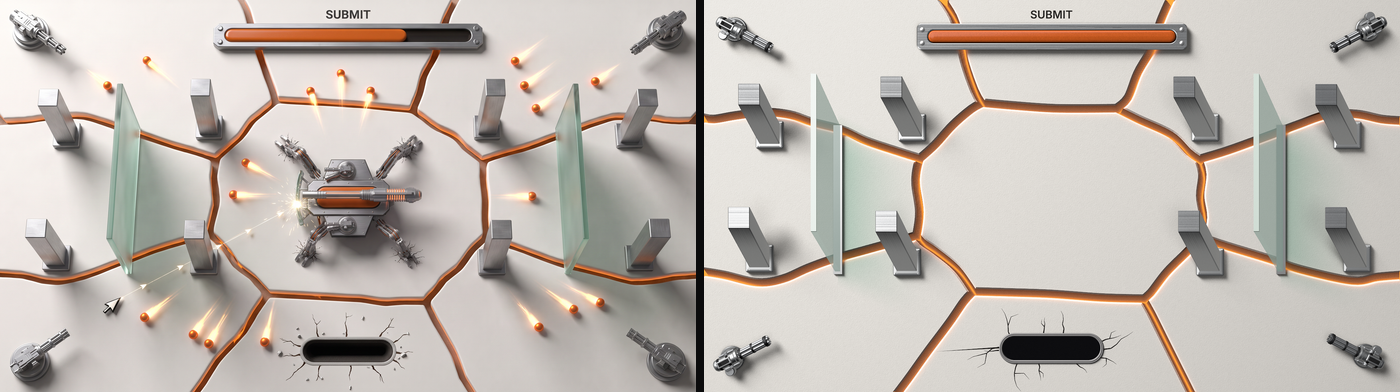
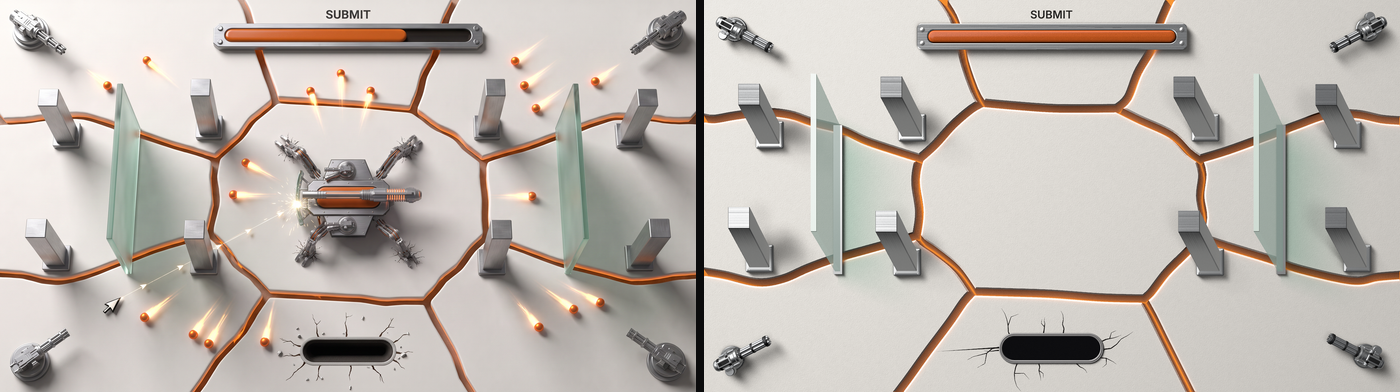
arena: the scorch black without its embossed tracks, glowing veins in the crust, no drawn spokes; the sounds note says the bar's event comes at 1.70; b-boss and b-bosslook merged

diff --git a/src/arena/scorch.ts b/src/arena/scorch.ts
@@ -92,7 +92,6 @@ export function scorchReach(s: Scorch, W: number, H: number): { i0: number; i1: 
   }
 }
 
-const CRACKS = 19
 
 // Rows `from` up to `to` of the scorch, written into `data` (W by H texels over the page, RGBA, row 0 at the bottom of the page):
 // red the soot, green how deep the surface is burnt away, blue the embers, alpha when the place burns: 1/255 at once, 255 as the blast ends. 0 where the ground is clean.
@@ -114,7 +113,6 @@ export function paintScorch(data: Uint8Array, W: number, H: number, s: Scorch, s
       if (e.px > 150) continue
       const fine = fbm(x / 5, y / 5, seed + 44)
       const mid = fbm(x / 24, y / 24, seed + 45)
-      // The rim is ragged at the size of a hand, and soft: the black thins out into a brown grey haze.
       // The rim is drawn out into streaks that run with the beam, ragged at the size of a hand, and soft: the black thins out into a brown grey haze.
       const streak = noise(e.along / 110 + 3.3, e.across / 7.5, seed + 46)
       const px = e.px + 20 * (fbm(x / 30, y / 30, seed + 52) - 0.5) + 34 * (streak - 0.5)
@@ -125,36 +123,25 @@ export function paintScorch(data: Uint8Array, W: number, H: number, s: Scorch, s
         const speck = fbm(x / 4.2, y / 4.2, seed + 47)
         if (speck > 0.69) soot = Math.max(soot, 0.9 * step(120, 14, px) * step(0.69, 0.77, speck))
       }
-      // Hairline cracks: along the trench inside it, and out from the burn like the spokes of a wheel.
+      // Hairline cracks along the trench, inside the black only.
       const fissure = step(0.91, 0.975, 1 - Math.abs(2 * noise(e.along / 52 + 7.7, e.across / 6, seed + 48) - 1)) * step(6, -18, e.px)
-      let spoke = 0
-      {
-        const bx = x - s.bx, by = y - s.by
-        const r = Math.hypot(bx, by)
-        const turn = (Math.atan2(by, bx) / (Math.PI * 2) + 0.5) * CRACKS
-        const n = Math.round(turn) % CRACKS
-        const reach = SCORCH.burn * (1.3 + 1.1 * rnd(seed, 430 + s.tag, n))
-        if (r > SCORCH.burn * 0.5 && r < reach) {
-          const bend = 0.34 * (rnd(seed, 431 + s.tag, n) - 0.5) + 0.26 * (noise(r / 34, n * 3.7, seed + 49) - 0.5)
-          let off = turn - Math.round(turn) - bend
-          if (off > 0.5) off -= 1
-          const dist = Math.abs(off) * ((Math.PI * 2) / CRACKS) * r
-          const thick = 0.3 + 0.7 * (1 - r / reach)
-          spoke = step(thick + 0.7, thick * 0.4, dist) * (rnd(seed, 432 + s.tag, n) > 0.36 ? 1 : 0)
-        }
-      }
-      soot = Math.max(soot, 0.92 * fissure, 0.8 * spoke)
+      soot = Math.max(soot, 0.92 * fissure)
       const core = step(0, -30, px)
-      const depth = 0.16 * core * mid + 0.6 * Math.max(fissure, spoke)
+      const depth = 0.16 * core * mid + 0.6 * fissure
       // Embers: short streaks down the middle of the trench, and a loose ring of them inside the rim of the burn.
       let ember = 0
       if (px < -6) {
         // Two loose rows of them down the line, right through the burn, and a few strays in the black beside the rows.
-        const band = Math.max(Math.exp(-(((Math.abs(e.across) - SCORCH.half * 0.34) / (SCORCH.half * 0.24)) ** 2)), 0.22 * step(-10, -40, px))
-        const patch = step(0.42, 0.62, noise(e.along / 85 + s.tag * 3.7, e.across / 85 + 5.5, seed + 50))
+        const band = Math.max(Math.exp(-(((Math.abs(e.across) - SCORCH.half * 0.34) / (SCORCH.half * 0.3)) ** 2)), 0.3 * step(-10, -40, px))
+        const patch = step(0.38, 0.6, noise(e.along / 85 + s.tag * 3.7, e.across / 85 + 5.5, seed + 50))
         const blob = fbm(e.along / 14 + 50, e.across / 5, seed + 51)
         // Small and orange: coals in soot, not the light of a broken slab.
         ember = 0.62 * step(0.6, 0.7, blob) * (0.35 + 0.65 * step(0.36, 0.56, fine)) * patch * band
+        // And veins of them: the cracks of the charred crust glow, drawn out a little along the beam.
+        const vein = 1 - Math.abs(2 * fbm(e.along / 34 + 9.1, e.across / 17 + 2.3, seed + 53) - 1)
+        const lit = step(0.3, 0.55, noise(e.along / 120 + 1.7, e.across / 70 + 8.8, seed + 54))
+        const broken = step(0.42, 0.58, fbm(x / 9, y / 9, seed + 55))
+        ember = Math.max(ember, 0.74 * step(0.95, 0.995, vein) * lit * broken * step(-4, -30, px) * (0.5 + 0.5 * fine))
       }
       if (soot < 0.012 && ember < 0.012) continue
       // When it burns: the front runs out along the line in the first part of the blast, and the black spreads from the middle to the rim for the rest of it.

diff --git a/src/arena/ground.ts b/src/arena/ground.ts
@@ -98,7 +98,7 @@ export function woundedCeramic(w: Wounds): THREE.MeshPhysicalMaterial {
     const emissive = '#include <emissivemap_fragment>'
     if (!shader.fragmentShader.includes(colour) || !shader.fragmentShader.includes(emissive)) throw new Error('The surface code of this three.js release is not the one the arena was written for')
     shader.fragmentShader = head + shader.fragmentShader
-      .replace(colour, `${colour}\n\tvec4 arenaW = texture2D( arenaWounds, vArenaUv );\n\tvec4 arenaS4 = texture2D( arenaScorch, vArenaUv );\n\tfloat arenaRev = ( arenaBurn.x <= 0.0 || arenaS4.a <= 0.0 ) ? 0.0 : smoothstep( arenaS4.a - 0.06, arenaS4.a + 0.06, arenaBurn.x * 1.12 );\n\tfloat arenaSoot = arenaS4.r * arenaRev * ( 0.9 + 0.2 * arenaHash( floor( vArenaUv * vec2( ${(PAGE.w * 1.6).toFixed(1)}, ${(PAGE.h * 1.6).toFixed(1)} ) ) ) );\n\tarenaW.r = max( arenaW.r, min( 1.0, arenaSoot ) );\n\tvec2 arenaWp = ( vArenaUv - 0.5 ) * vec2( ${PAGE.w.toFixed(1)}, ${PAGE.h.toFixed(1)} );\n\tdiffuseColor.rgb *= 1.0 + min( 1.0, arenaSeam ) * ( ( arenaHash( floor( arenaWp * 0.9 ) ) - 0.5 ) * 0.03 + ( arenaVal( arenaWp / 9.0 ) - 0.5 ) * 0.018 );\n\tdiffuseColor.rgb = mix( diffuseColor.rgb, vec3( 0.2, 0.15, 0.115 ), smoothstep( 0.0, 0.5, arenaW.r ) * 0.85 );\n\tdiffuseColor.rgb = mix( diffuseColor.rgb, vec3( 0.03, 0.027, 0.025 ), smoothstep( 0.3, 1.0, arenaW.r ) );\n\tfloat arenaHole = smoothstep( 0.56, 0.64, arenaW.a );\n\tdiffuseColor.rgb = mix( diffuseColor.rgb, vec3( 0.1, 0.088, 0.082 ), 0.9 * smoothstep( 0.03, 0.36, arenaW.a ) );\n\tdiffuseColor.rgb *= mix( 1.0, 0.45, smoothstep( 0.3, 0.56, arenaW.a ) ) * ( 1.0 - 0.97 * arenaHole );`)
+      .replace(colour, `${colour}\n\tvec4 arenaW = texture2D( arenaWounds, vArenaUv );\n\tvec4 arenaS4 = texture2D( arenaScorch, vArenaUv );\n\tfloat arenaRev = ( arenaBurn.x <= 0.0 || arenaS4.a <= 0.0 ) ? 0.0 : smoothstep( arenaS4.a - 0.06, arenaS4.a + 0.06, arenaBurn.x * 1.12 );\n\tfloat arenaSoot = arenaS4.r * arenaRev * ( 0.9 + 0.2 * arenaHash( floor( vArenaUv * vec2( ${(PAGE.w * 1.6).toFixed(1)}, ${(PAGE.h * 1.6).toFixed(1)} ) ) ) );\n\tarenaW.r = max( arenaW.r, min( 1.0, arenaSoot ) );\n\tvec2 arenaWp = ( vArenaUv - 0.5 ) * vec2( ${PAGE.w.toFixed(1)}, ${PAGE.h.toFixed(1)} );\n\tdiffuseColor.rgb *= 1.0 + min( 1.0, arenaSeam ) * ( ( arenaHash( floor( arenaWp * 0.9 ) ) - 0.5 ) * 0.03 + ( arenaVal( arenaWp / 9.0 ) - 0.5 ) * 0.018 );\n\tdiffuseColor.rgb = mix( diffuseColor.rgb, vec3( 0.2, 0.15, 0.115 ), smoothstep( 0.0, 0.5, arenaW.r ) * 0.85 );\n\tdiffuseColor.rgb = mix( diffuseColor.rgb, vec3( 0.03, 0.027, 0.025 ) * ( 1.0 + 1.3 * arenaS4.r * arenaRev * arenaVal( arenaWp / 15.0 ) * arenaVal( arenaWp / 3.1 ) ), smoothstep( 0.3, 1.0, arenaW.r ) );\n\tfloat arenaHole = smoothstep( 0.56, 0.64, arenaW.a );\n\tdiffuseColor.rgb = mix( diffuseColor.rgb, vec3( 0.1, 0.088, 0.082 ), 0.9 * smoothstep( 0.03, 0.36, arenaW.a ) );\n\tdiffuseColor.rgb *= mix( 1.0, 0.45, smoothstep( 0.3, 0.56, arenaW.a ) ) * ( 1.0 - 0.97 * arenaHole );`)
       .replace(emissive, `${emissive}
 \t{
 \t\tvec2 arenaT = ${texel};
@@ -106,7 +106,7 @@ export function woundedCeramic(w: Wounds): THREE.MeshPhysicalMaterial {
 \t\tfloat arenaDy = texture2D( arenaWounds, vArenaUv + vec2( 0.0, arenaT.y ) ).g - texture2D( arenaWounds, vArenaUv - vec2( 0.0, arenaT.y ) ).g;
 \t\tfloat arenaSg = arenaS4.g * arenaRev;
 \t\tvec2 arenaBent = vec2( dFdx( arenaSg ) / max( 0.000001, abs( dFdx( vArenaUv.x ) ) ), dFdy( arenaSg ) / max( 0.000001, abs( dFdy( vArenaUv.y ) ) ) ) * vec2( ${(4 / PAGE.w).toFixed(6)}, ${(4 / PAGE.h).toFixed(6)} );
-\t\tnormal = normalize( normal + vec3( arenaDx + arenaBent.x * 0.7, arenaDy + arenaBent.y * 0.7, 0.0 ) * 2.6 );
+\t\tnormal = normalize( normal + vec3( arenaDx + arenaBent.x * 0.12, arenaDy + arenaBent.y * 0.12, 0.0 ) * 2.6 );
 \t\troughnessFactor = mix( roughnessFactor, 0.95, arenaW.r );
 \t\tfloat arenaFlick = 0.76 + 0.24 * sin( arenaTime * 5.0 + vArenaUv.x * 173.0 + sin( vArenaUv.y * 131.0 + arenaTime * 3.1 ) * 2.0 );
 \t\tfloat arenaB = arenaW.b * arenaW.b;

diff --git a/pipeline/change002/arena-sounds.md b/pipeline/change002/arena-sounds.md
@@ -9,7 +9,7 @@ From b_arena_builder. Times are seconds of `view.time` (0 is `button-crack`, the
 | `page-crack` (the fight's `button-crack`) | 0.00 | 0 | Hairline cracks shoot out of the socket (done by 0.30) and race over the whole page along the lines of the seams (all drawn by 0.62, frame 37). | Dry ceramic cracking that runs away from the listener, no boom. 0.9 s, loudest in its first 0.15 s. |
 | `arena-split` | 0.70 | 42 | The page's own ground is gone and the nine slabs lie there; the seams open from 0.70 to 1.15 (frame 69); dust jumps up along every seam within 6 frames and hangs to 2.6; the light from below surges. The strongest knock of the shake is on this frame. | A deep stone crack with a low thud under it and a hiss of dust after. 1.2 s, the hit on its first frame. |
 | `arena-rise` | 1.00 | 60 | Pillars, panes and corner guns rise, each over 0.42 s, started one after another between 1.00 and 1.48; the last lands at 1.90 (frame 114). Each landing is a small knock of the shake. | Heavy metal sliding up out of stone, with a row of short locks as each thing seats. 1.0 s, the locks spread from 0.4 s to 0.9 s into the sound. |
-| `healthbar-drop` | 2.10 | 126 | The bolted frame of the health bar falls from above the screen from 1.70 (frame 102) and lands at 2.12 (frame 127). The event marks the landing, not the start of the fall. | One metal clank with a short ring. 0.5 s, the hit on its first frame. If the batch wants the fall heard too, the event has to move to 1.70 and the hit sits 0.42 s into the sound: say which. |
+| `healthbar-drop` | 1.70 | 102 | The bolted frame of the health bar starts to fall from above the screen on this frame and lands at 2.12 (frame 127), with one small bounce. STATED by the fight helper: the event is emitted at 1.70, the start of the fall. | A short rush of air, then one metal clank with a short ring. 0.5 s, the clank 0.42 s into the sound so it meets the landing. |
 
 The change is over at 2.40 (frame 144): from there the pillars and panes stop shots.
 
